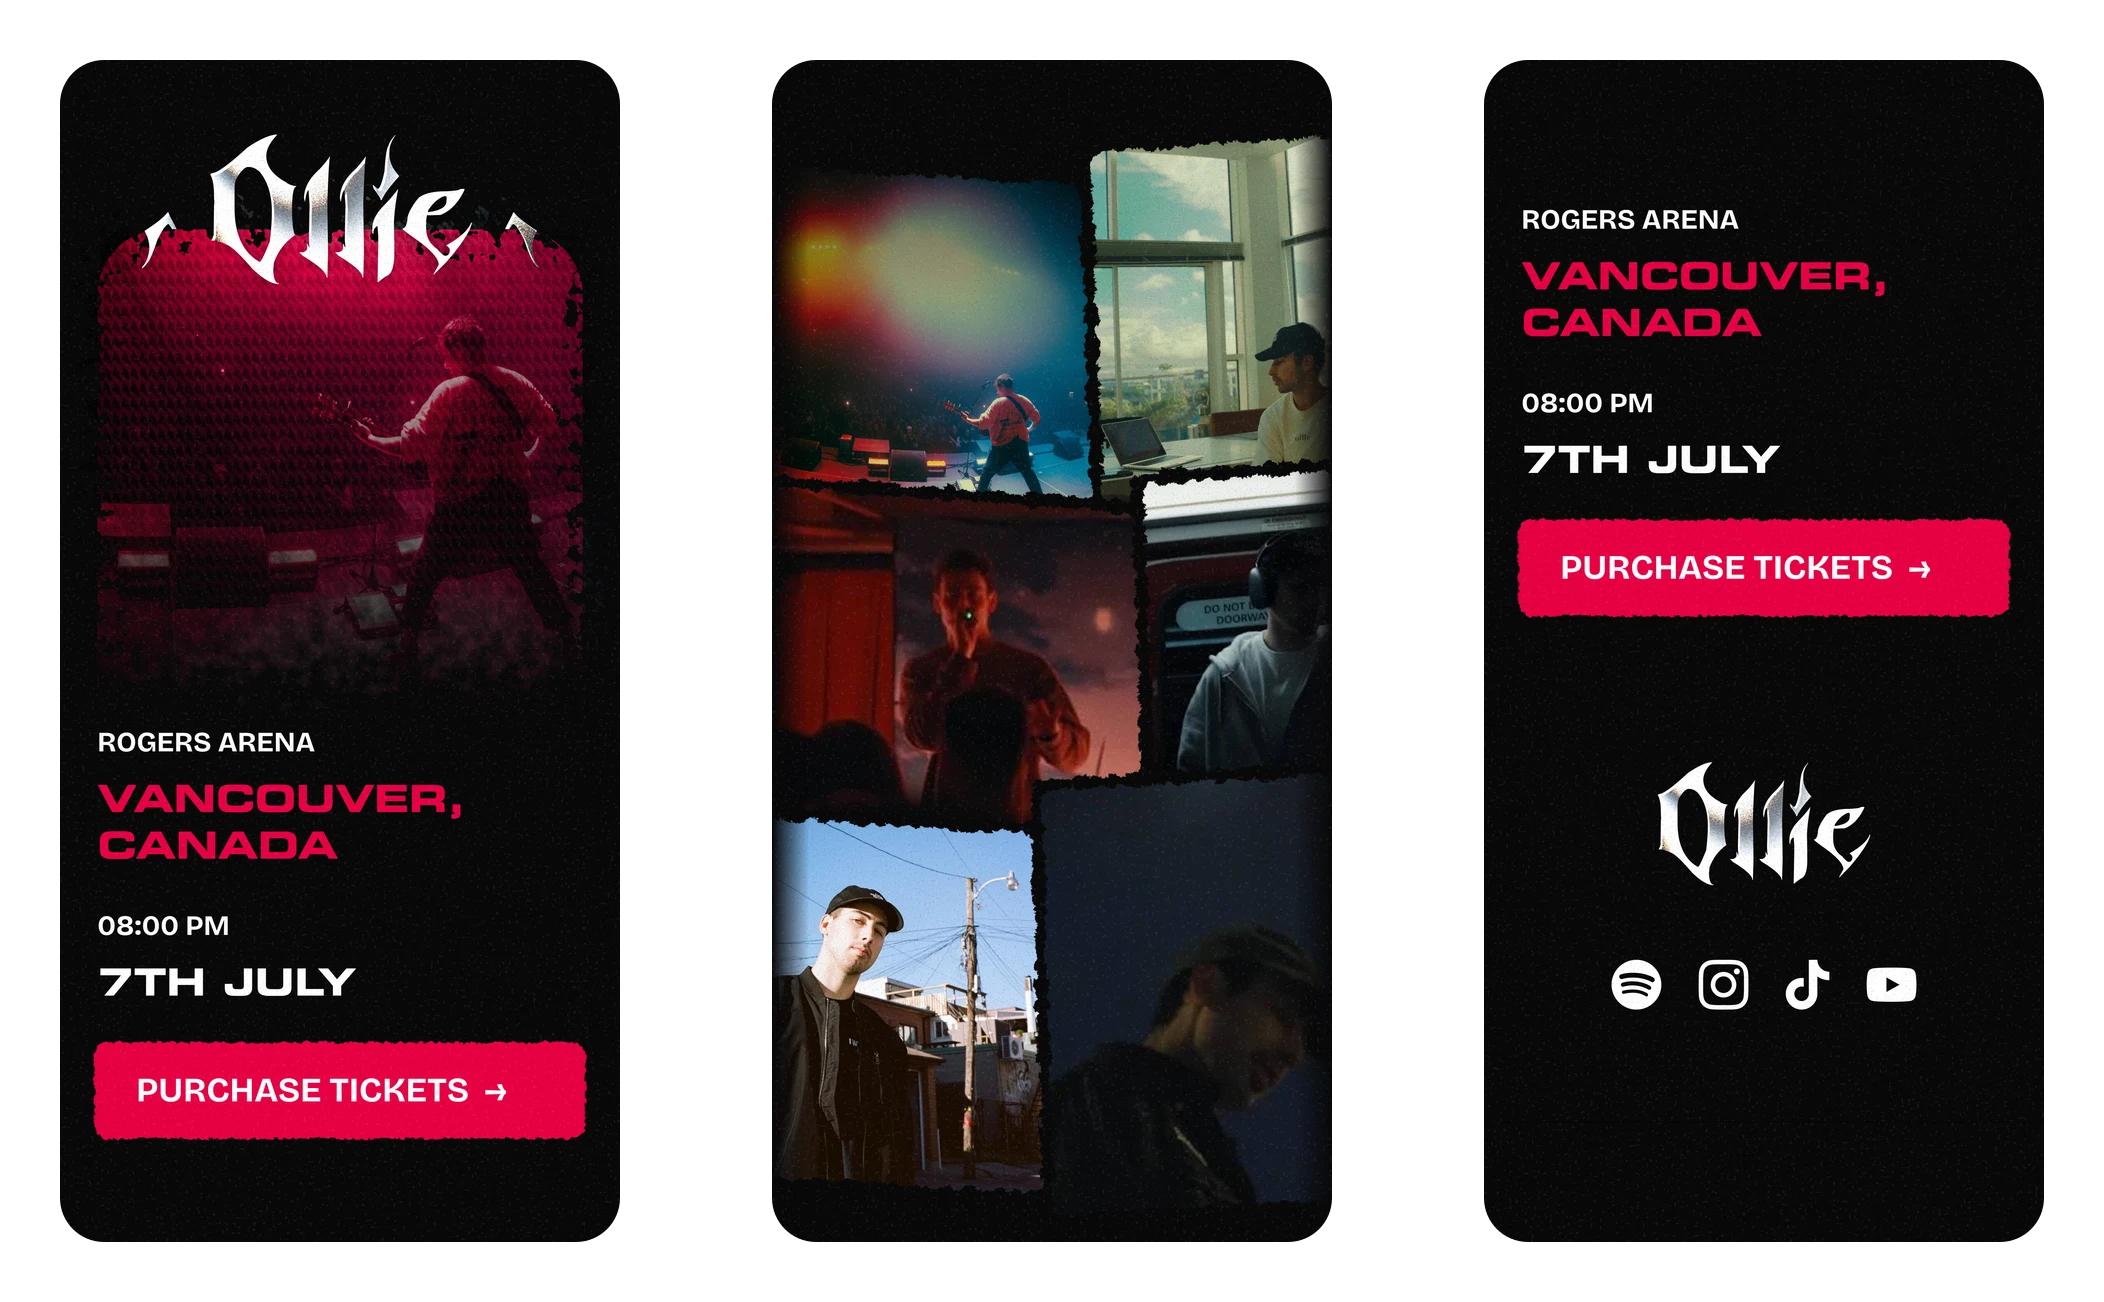
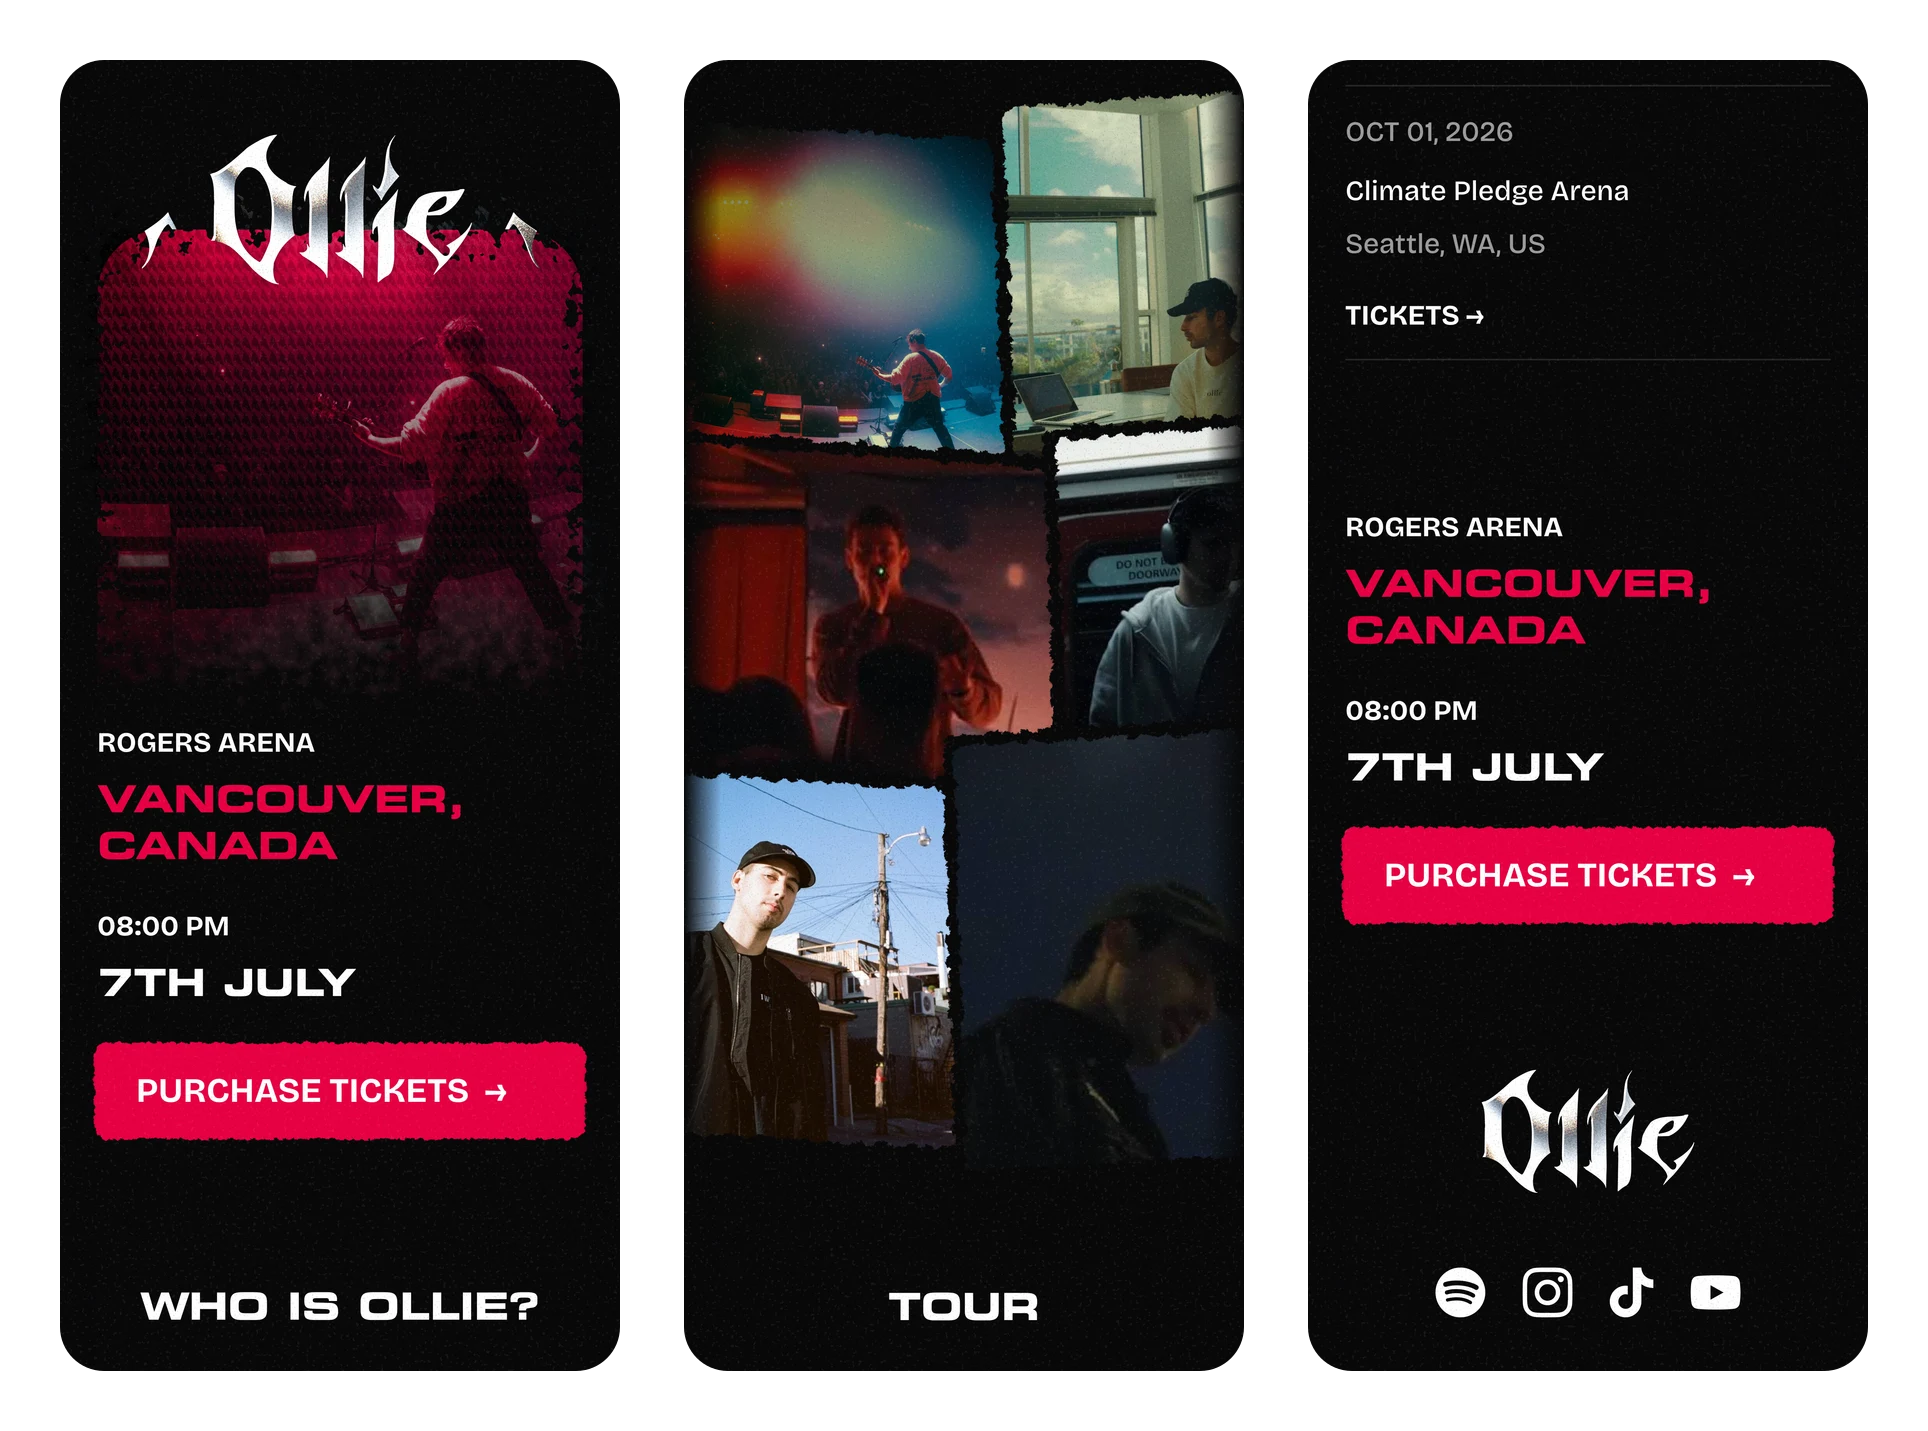
mobile

diff --git a/src/lib/media/manifest.js b/src/lib/media/manifest.js
@@ -43,7 +43,7 @@ export const manifest = {
     "/ollie/cover.webp": {"width":2400,"height":1800,"color":"#2c0b15","variants":[["/sizes/ollie/cover-640.webp",640],["/sizes/ollie/cover-960.webp",960],["/sizes/ollie/cover-1280.webp",1280],["/sizes/ollie/cover-1920.webp",1920]]},
     "/ollie/full.webp": {"width":2800,"height":1575,"color":"#1f1317"},
     "/ollie/hero.webp": {"width":2400,"height":1417,"color":"#2c0b15"},
-    "/ollie/mobile.webp": {"width":2104,"height":1302,"color":"#28191d"},
+    "/ollie/mobile.webp": {"width":1928,"height":1431,"color":"#26181c"},
     "/ollie/outline.webp": {"width":2800,"height":2100,"color":"#1e1e1e"},
     "/ollie/tour.webp": {"width":2400,"height":1767,"color":"#190d10"},
     "/hedwy_portfolio/portfolio_kit.webp": {"width":1299,"height":1267,"color":"#252120","variants":[["/sizes/hedwy_portfolio/portfolio_kit-640.webp",640],["/sizes/hedwy_portfolio/portfolio_kit-960.webp",960],["/sizes/hedwy_portfolio/portfolio_kit-1280.webp",1280]]},

diff --git a/src/lib/content/cases/ollie.js b/src/lib/content/cases/ollie.js
@@ -14,7 +14,7 @@ export default [
     },
     {
         image: '/ollie/mobile.webp',
-        alt: 'three tilted phones: the hero, a stack of photos and the ticket banner',
+        alt: 'three phones side by side: the hero, a stack of photos and the ticket banner',
     },
     {
         image: '/ollie/outline.webp',
